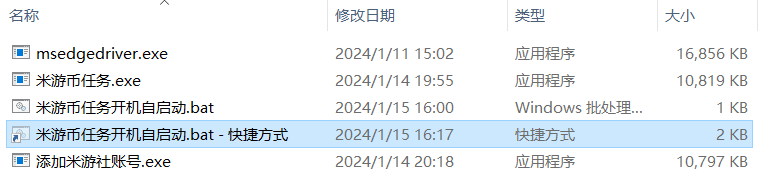
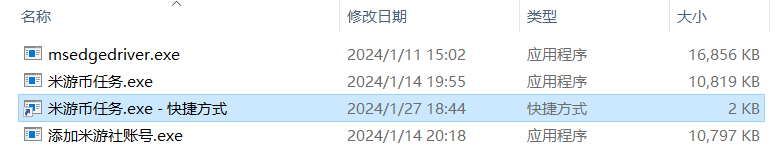
修改配置开机自启的方法

diff --git a/README.md b/README.md
@@ -15,9 +15,9 @@
 **目的:** 配置成开机自启动后，每天电脑开机的时候就会自动运行，就不会忘记了  
 **前提:** 已经使用`添加米游社账号.exe`程序添加好了所需的账号  
 **步骤:**
-1. 为`米游币任务开机自启动.bat`创建快捷方式（win10在鼠标右键->创建快捷方式）
+1. 为`米游币任务.exe`创建快捷方式（win10在鼠标右键->创建快捷方式）
 ![create-shortcut.png](docs/create-shortcut.png)
-2. 按快捷键“Win + R”打开运行对话框，在其中输入“shell:startup”（不含引号）并按下回车键
+2. 按快捷键“Win + R”打开运行对话框，在其中输入`shell:startup`并按下回车键
 ![open-startup.png](docs/open-startup.png)
 3. 在弹出的窗口中，将第1步创建的快捷方式拖入其中
 ![move-shortcut-to-startup.png](docs/move-shortcut-to-startup.png)  
